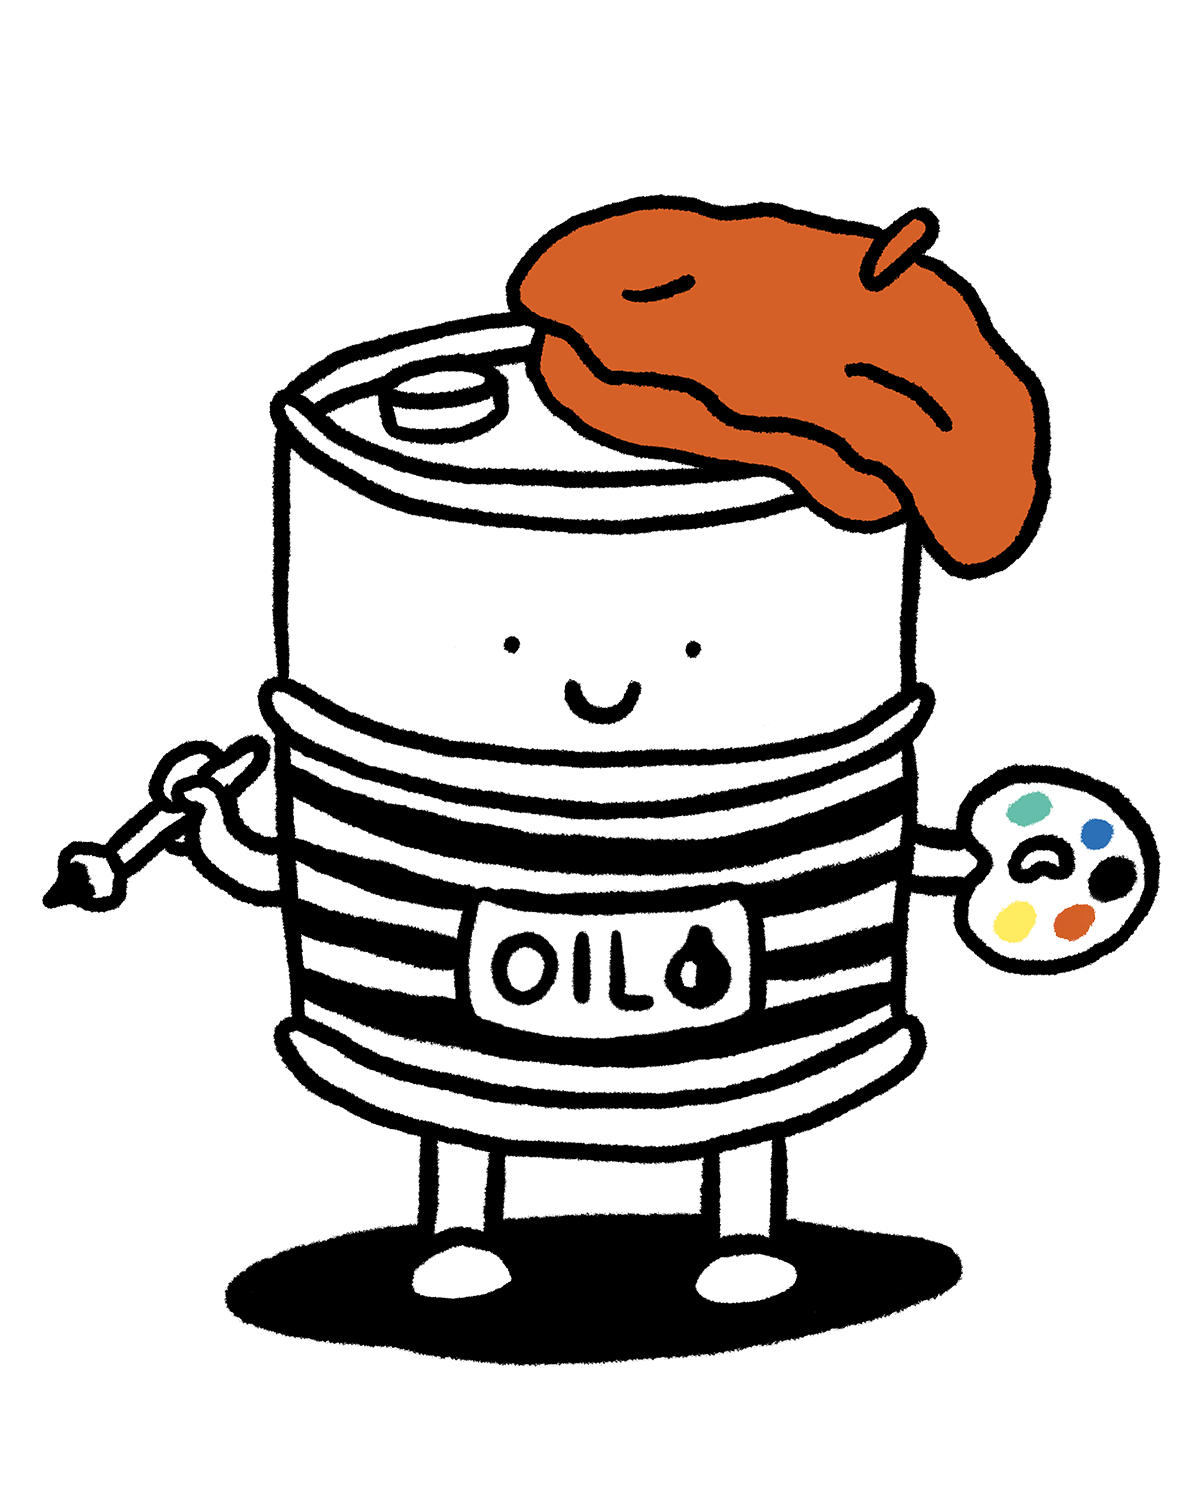
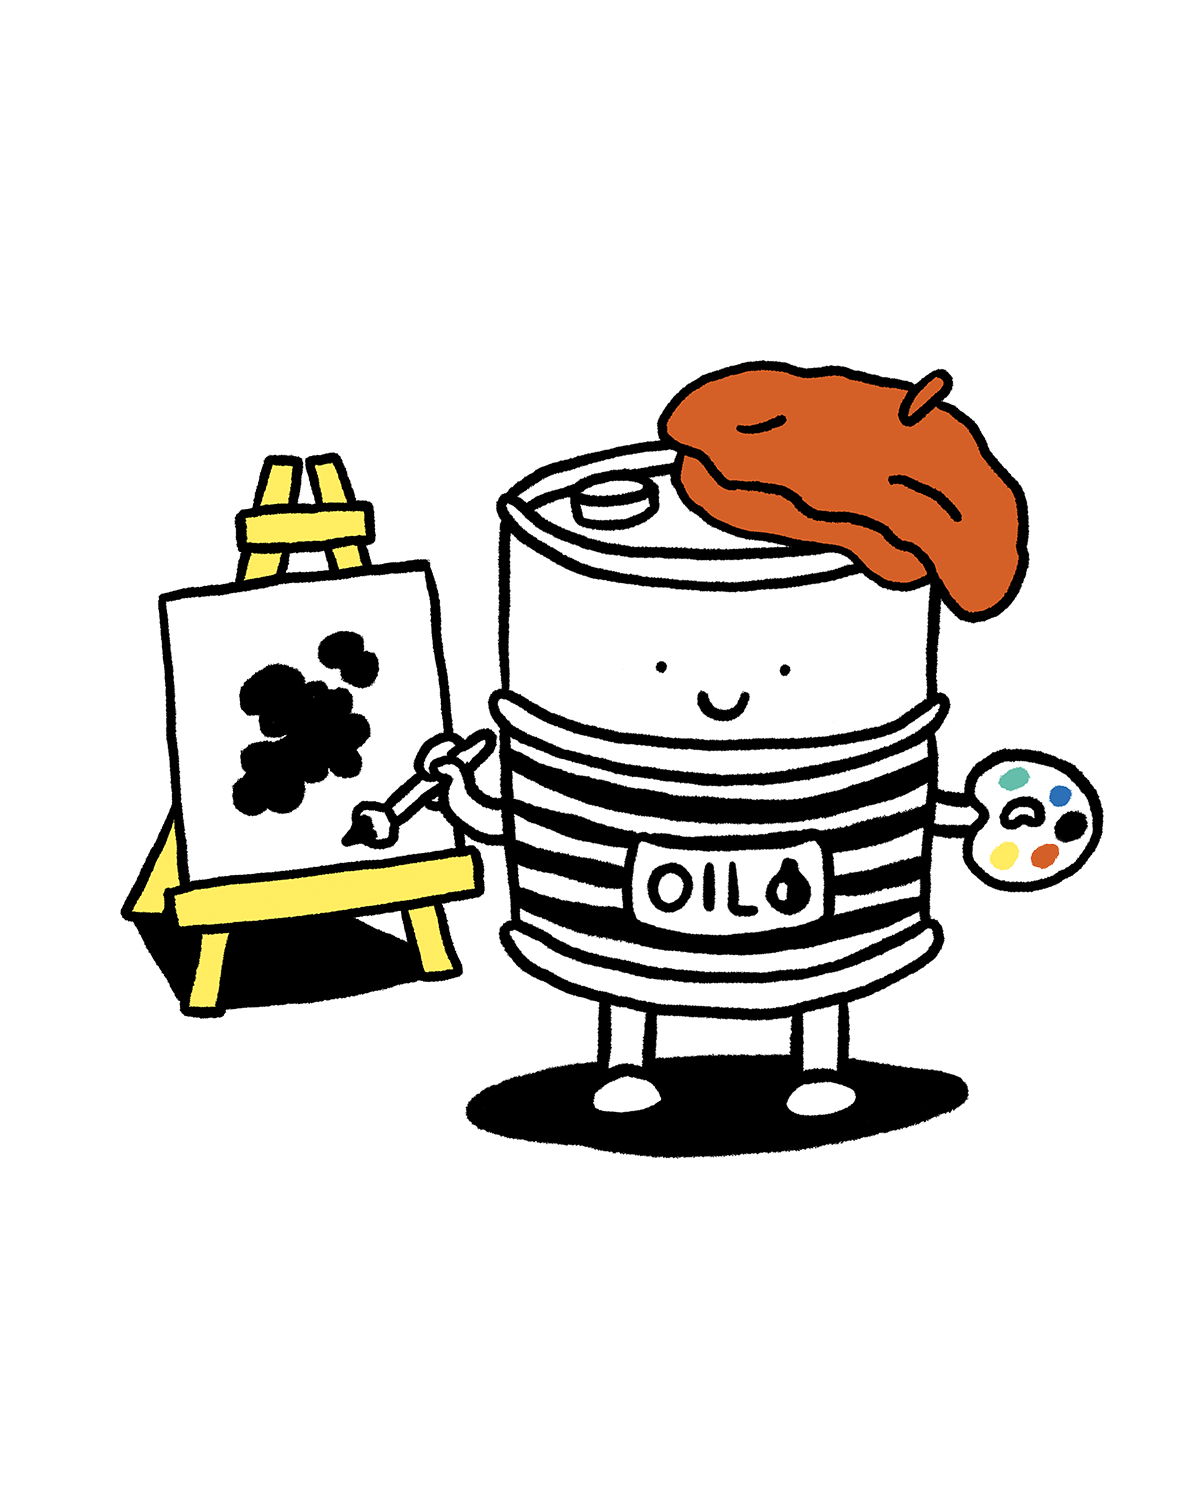
App update

Changed region(s): [[0.0308, 0.1233, 0.985, 0.9249]]

diff --git a/src/App.tsx b/src/App.tsx
@@ -9,17 +9,17 @@ for (const [path, url] of Object.entries(mascotModules)) {
 }
 
 const AUDIENCE_MASCOT: Record<string, string> = {
-  'Concerned Moms':        'MUM',
+  'Concerned Moms': 'MUM',
   'Disenfranchised Youth': 'GOTH',
-  'Divorced Men':          'DIVORCE',
+  'Divorced Men': 'DIVORCE',
   'Hard-Working Citizens': 'WORKER',
 }
 const EMOTION_MASCOT: Record<string, string> = {
-  'Anger':     'ANGER',
+  'Anger': 'ANGER',
   'Nostalgia': 'NOSTALGIC',
-  'Fear':      'FEAR',
-  'Hope':      'HOPEFUL',
-  'Pride':     'DEFAULT',
+  'Fear': 'FEAR',
+  'Hope': 'HOPEFUL',
+  'Pride': 'DEFAULT',
 }
 
 function getMascotSrc(audience?: string, emotion?: string): string {
@@ -35,20 +35,20 @@ function getMascotSrc(audience?: string, emotion?: string): string {
 
 /* ---- content ------------------------------------------------------- */
 const AUDIENCES = ['Concerned Moms', 'Disenfranchised Youth', 'Divorced Men', 'Hard-Working Citizens']
-const EMOTIONS  = ['Anger', 'Nostalgia', 'Fear', 'Pride', 'Hope']
+const EMOTIONS = ['Anger', 'Nostalgia', 'Fear', 'Pride', 'Hope']
 
 const AUDIENCE_IDS: Record<string, string> = {
-  'Concerned Moms':        'concerned-mothers',
+  'Concerned Moms': 'concerned-mothers',
   'Disenfranchised Youth': 'disenfranchised-youth',
-  'Divorced Men':          'divorced-men',
+  'Divorced Men': 'divorced-men',
   'Hard-Working Citizens': 'hard-working-citizens',
 }
 const EMOTION_IDS: Record<string, string> = {
-  'Anger':     'anger',
+  'Anger': 'anger',
   'Nostalgia': 'nostalgia',
-  'Fear':      'fear',
-  'Pride':     'pride',
-  'Hope':      'hope',
+  'Fear': 'fear',
+  'Pride': 'pride',
+  'Hope': 'hope',
 }
 
 type NodeType = 'welcome' | 'loader' | 'select' | 'success' | 'blob'
@@ -73,8 +73,10 @@ const FLOW: FlowNode[] = [
   { type: 'loader', headlines: ['Great choice.'], dur: 2200, sound: 'cheer' },
   { type: 'select', store: 'emotion', title: 'What emotion\nshould we\nmanipulate?', options: EMOTIONS, titleXs: true },
   { type: 'loader', headlines: ["Now we're\ncooking!"], dur: 2200, sound: 'cheer' },
-  { type: 'loader', think: true, dur: 5000,
-    headlines: ['Having deep\nstrategic thoughts…', 'Thinking of\nworld-first ideas', 'Cutting down\nsome trees…'] },
+  {
+    type: 'loader', think: true, dur: 5000,
+    headlines: ['Having deep\nstrategic thoughts…', 'Thinking of\nworld-first ideas', 'Cutting down\nsome trees…']
+  },
   { type: 'success' },
   { type: 'blob', dur: 3200, sound: 'none' },
 ]
@@ -131,11 +133,11 @@ const Sound = (() => {
     src.start(t); src.stop(t + dur)
   }
   return {
-    nav()    { noise(0.022, 0.04, 3400); tone(86, 0, 0.05, 0.04, 'sine') },
+    nav() { noise(0.022, 0.04, 3400); tone(86, 0, 0.05, 0.04, 'sine') },
     select() { noise(0.04, 0.05, 1800); tone(67, 0, 0.08, 0.06); tone(71, 0.055, 0.1, 0.05) },
-    power()  { [60, 64, 67, 72].forEach((n, i) => tone(n, i * 0.075, 0.55, 0.055)) },
-    land()   { tone(60, 0, 0.5, 0.06, 'sine') },
-    cheer()  { tone(72, 0, 0.12, 0.05, 'triangle'); tone(76, 0.1, 0.2, 0.04, 'triangle') },
+    power() { [60, 64, 67, 72].forEach((n, i) => tone(n, i * 0.075, 0.55, 0.055)) },
+    land() { tone(60, 0, 0.5, 0.06, 'sine') },
+    cheer() { tone(72, 0, 0.12, 0.05, 'triangle'); tone(76, 0.1, 0.2, 0.04, 'triangle') },
     loading(dur: number) {
       const scale = [0, 2, 4, 7, 9, 12, 14, 16, 19, 21, 24]
       const step = 0.42
@@ -295,13 +297,20 @@ function SuccessScreen({ onReset, art, mascotSrc }: { onReset: () => void; art?:
   return (
     <div className="scr scr-fade" onClick={reset}>
       <div className="zone-top">
-        <div className={`headline${resetting ? ' sm' : ''}`} key={resetting ? 'r' : 'i'} style={{ animation: 'petro-fadein .3s ease both' }}>
-          <Lines text={resetting ? "Let's make some\nmore ideas…" : "Your idea\nis ready"} />
-        </div>
+        {(!art || resetting) && (
+          <div className={`headline${resetting ? ' sm' : ''}`} key={resetting ? 'r' : 'i'} style={{ animation: 'petro-fadein .3s ease both' }}>
+            <Lines text={resetting ? "Let's make some\nmore ideas…" : "Your idea\nis ready"} />
+          </div>
+        )}
       </div>
       <div className="zone-mid">
         {art
-          ? <div className="decept"><img src={art} alt="Your generated Decept" /></div>
+          ? <div className="decept">
+            <img src={art} alt="Your generated Decept" />
+            {!resetting && (
+              <a href={art} download="petro-idea.png" className="decept-dl">↓ Save image</a>
+            )}
+          </div>
           : <PetroArt src={mascotSrc} />}
       </div>
       <div className="zone-bot">
@@ -334,7 +343,7 @@ function FitStage({ children, pad = 40 }: { children: React.ReactNode; pad?: num
       el.style.transform = 'none'
       const w = el.offsetWidth, h = el.offsetHeight
       const scale = Math.min((window.innerWidth - pad) / w, (window.innerHeight - pad) / h)
-      const dx = (window.innerWidth  - w * scale) / 2
+      const dx = (window.innerWidth - w * scale) / 2
       const dy = (window.innerHeight - h * scale) / 2
       el.style.transform = `translate(${dx}px, ${dy}px) scale(${scale})`
     }
@@ -359,7 +368,7 @@ function WebStage({ children, navHeight = 0 }: { children: React.ReactNode; navH
       const totalW = 378 + 3      // content + borders (no inner padding)
       const totalH = 378 + 3 + 36 // content + borders + titlebar
       const scale = Math.min(
-        (window.innerWidth  - 48) / totalW,
+        (window.innerWidth - 48) / totalW,
         (window.innerHeight - navHeight - 48) / totalH,
         1.5
       )
@@ -390,7 +399,7 @@ function WebStage({ children, navHeight = 0 }: { children: React.ReactNode; navH
 function comboIds(audienceLabel: string, emotionLabel: string) {
   return {
     audience: AUDIENCE_IDS[audienceLabel] ?? audienceLabel.toLowerCase().replace(/\s+/g, '-'),
-    emotion:  EMOTION_IDS[emotionLabel]   ?? emotionLabel.toLowerCase(),
+    emotion: EMOTION_IDS[emotionLabel] ?? emotionLabel.toLowerCase(),
   }
 }
 
@@ -400,7 +409,7 @@ function firePrint(audienceLabel: string, emotionLabel: string) {
     method: 'POST',
     headers: { 'Content-Type': 'application/json' },
     body: JSON.stringify({ audience, emotion }),
-  }).catch(() => {})
+  }).catch(() => { })
 }
 
 // Web demo only: resolve the pre-generated Decept artwork for this combo.
@@ -529,13 +538,13 @@ const th: React.CSSProperties = { border: '1px solid #333', padding: '8px 12px',
 export default function App({ navHeight = 0 }: { navHeight?: number } = {}) {
   if (DEBUG) return <DebugPage />
 
-  const [phase, setPhase]       = useState(0)
+  const [phase, setPhase] = useState(0)
   const [selIndex, setSelIndex] = useState(0)
-  const [sel, setSel]           = useState<Record<string, string>>({})
-  const [art, setArt]           = useState<string | null>(null)
-  const phaseRef    = useRef(phase);    phaseRef.current    = phase
+  const [sel, setSel] = useState<Record<string, string>>({})
+  const [art, setArt] = useState<string | null>(null)
+  const phaseRef = useRef(phase); phaseRef.current = phase
   const selIndexRef = useRef(selIndex); selIndexRef.current = selIndex
-  const selRef      = useRef(sel);      selRef.current      = sel
+  const selRef = useRef(sel); selRef.current = sel
   const node = FLOW[phase]
 
   const advance = useCallback(() => setPhase((p) => (p + 1) % FLOW.length), [])
@@ -555,7 +564,12 @@ export default function App({ navHeight = 0 }: { navHeight?: number } = {}) {
     advance()
   }, [advance])
 
-  useEffect(() => { if (FLOW[phase].type === 'select') setSelIndex(0) }, [phase])
+  useEffect(() => {
+    if (FLOW[phase].type === 'select') {
+      const opts = FLOW[phase].options!
+      setSelIndex(Math.floor(Math.random() * opts.length))
+    }
+  }, [phase])
 
   useEffect(() => {
     const onKey = (e: KeyboardEvent) => {
@@ -564,9 +578,9 @@ export default function App({ navHeight = 0 }: { navHeight?: number } = {}) {
       if (n.type === 'welcome') {
         if (enter) { e.preventDefault(); Sound.select(); advance() }
       } else if (n.type === 'select') {
-        if (e.key === 'ArrowLeft')       { e.preventDefault(); Sound.nav(); setSelIndex((x) => (x - 1 + n.options!.length) % n.options!.length) }
+        if (e.key === 'ArrowLeft') { e.preventDefault(); Sound.nav(); setSelIndex((x) => (x - 1 + n.options!.length) % n.options!.length) }
         else if (e.key === 'ArrowRight') { e.preventDefault(); Sound.nav(); setSelIndex((x) => (x + 1) % n.options!.length) }
-        else if (enter)                  { e.preventDefault(); Sound.select(); confirm() }
+        else if (enter) { e.preventDefault(); Sound.select(); confirm() }
       } else if (n.type === 'success') {
         if (enter) { e.preventDefault(); Sound.select(); goReset() }
       }
@@ -575,18 +589,27 @@ export default function App({ navHeight = 0 }: { navHeight?: number } = {}) {
     return () => window.removeEventListener('keydown', onKey)
   }, [advance, confirm, goReset])
 
-  // kiosk: reset after 30s of inactivity on a selector
+  // kiosk: reset after 2 minutes of inactivity on a selector
   useEffect(() => {
     if (FLOW[phase].type !== 'select') return
-    let t = setTimeout(goReset, 30000)
-    const bump = () => { clearTimeout(t); t = setTimeout(goReset, 30000) }
+    let t = setTimeout(goReset, 240000)
+    const bump = () => { clearTimeout(t); t = setTimeout(goReset, 240000) }
     window.addEventListener('keydown', bump)
-    return () => { clearTimeout(t); window.removeEventListener('keydown', bump) }
+    window.addEventListener('pointerdown', bump)
+    window.addEventListener('touchstart', bump)
+    return () => {
+      clearTimeout(t)
+      window.removeEventListener('keydown', bump)
+      window.removeEventListener('pointerdown', bump)
+      window.removeEventListener('touchstart', bump)
+    }
   }, [phase, goReset])
 
   // Resolve which mascot image to show at the current phase
   let mascotSrc = MASCOTS['OILY'] ?? ''
-  if (node.type === 'select' && node.store === 'audience') {
+  if (node.type === 'success' && KIOSK) {
+    mascotSrc = MASCOTS['OILY-PRINTING'] ?? MASCOTS['OILY'] ?? ''
+  } else if (node.type === 'select' && node.store === 'audience') {
     mascotSrc = getMascotSrc(node.options![selIndex])
   } else if (node.type === 'select' && node.store === 'emotion') {
     mascotSrc = getMascotSrc(sel.audience, node.options![selIndex])
@@ -601,11 +624,11 @@ export default function App({ navHeight = 0 }: { navHeight?: number } = {}) {
   }
 
   let screen: React.ReactNode
-  if      (node.type === 'welcome') screen = <WelcomeScreen onBegin={advance} mascotSrc={mascotSrc} />
-  else if (node.type === 'loader')  screen = <LoaderScreen key={'s' + phase} node={node} onDone={advance} mascotSrc={mascotSrc} />
-  else if (node.type === 'select')  screen = <SelectScreen node={node} index={selIndex} onChange={setSelIndex} onConfirm={confirm} mascotSrc={mascotSrc} />
+  if (node.type === 'welcome') screen = <WelcomeScreen onBegin={advance} mascotSrc={mascotSrc} />
+  else if (node.type === 'loader') screen = <LoaderScreen key={'s' + phase} node={node} onDone={advance} mascotSrc={mascotSrc} />
+  else if (node.type === 'select') screen = <SelectScreen node={node} index={selIndex} onChange={setSelIndex} onConfirm={confirm} mascotSrc={mascotSrc} />
   else if (node.type === 'success') screen = <SuccessScreen onReset={goReset} art={KIOSK ? null : art} mascotSrc={mascotSrc} />
-  else                              screen = <BlobScreen key={'s' + phase} dur={node.dur!} onDone={toStart} />
+  else screen = <BlobScreen key={'s' + phase} dur={node.dur!} onDone={toStart} />
 
   const inner = <><div className="crt-flash" key={'f' + phase} />{screen}</>
 

diff --git a/src/index.css b/src/index.css
@@ -270,12 +270,18 @@ html, body { margin: 0; height: 100%; -webkit-font-smoothing: antialiased; }
   to   { transform: none; opacity: 1; }
 }
 .decept img {
-  display: block; max-height: 174px; width: auto;
+  display: block; max-height: 240px; width: auto;
   background: #fff; border: 1px solid var(--ink-15);
   box-shadow: 0 6px 18px rgba(44,48,56,.18);
   animation: decept-print .7s ease both;
 }
 @media (prefers-reduced-motion: reduce) { .decept img { animation: none; } }
+.decept-dl {
+  display: block; margin-top: 10px; text-align: center;
+  font-family: var(--mono); font-size: 12px; letter-spacing: .8px; text-transform: uppercase;
+  color: var(--ink-55); text-decoration: none; transition: color .15s;
+}
+.decept-dl:hover { color: var(--ink); }
 
 /* ============================================================
    KIOSK MODE — full-viewport screen for the Pi (1080×1080)